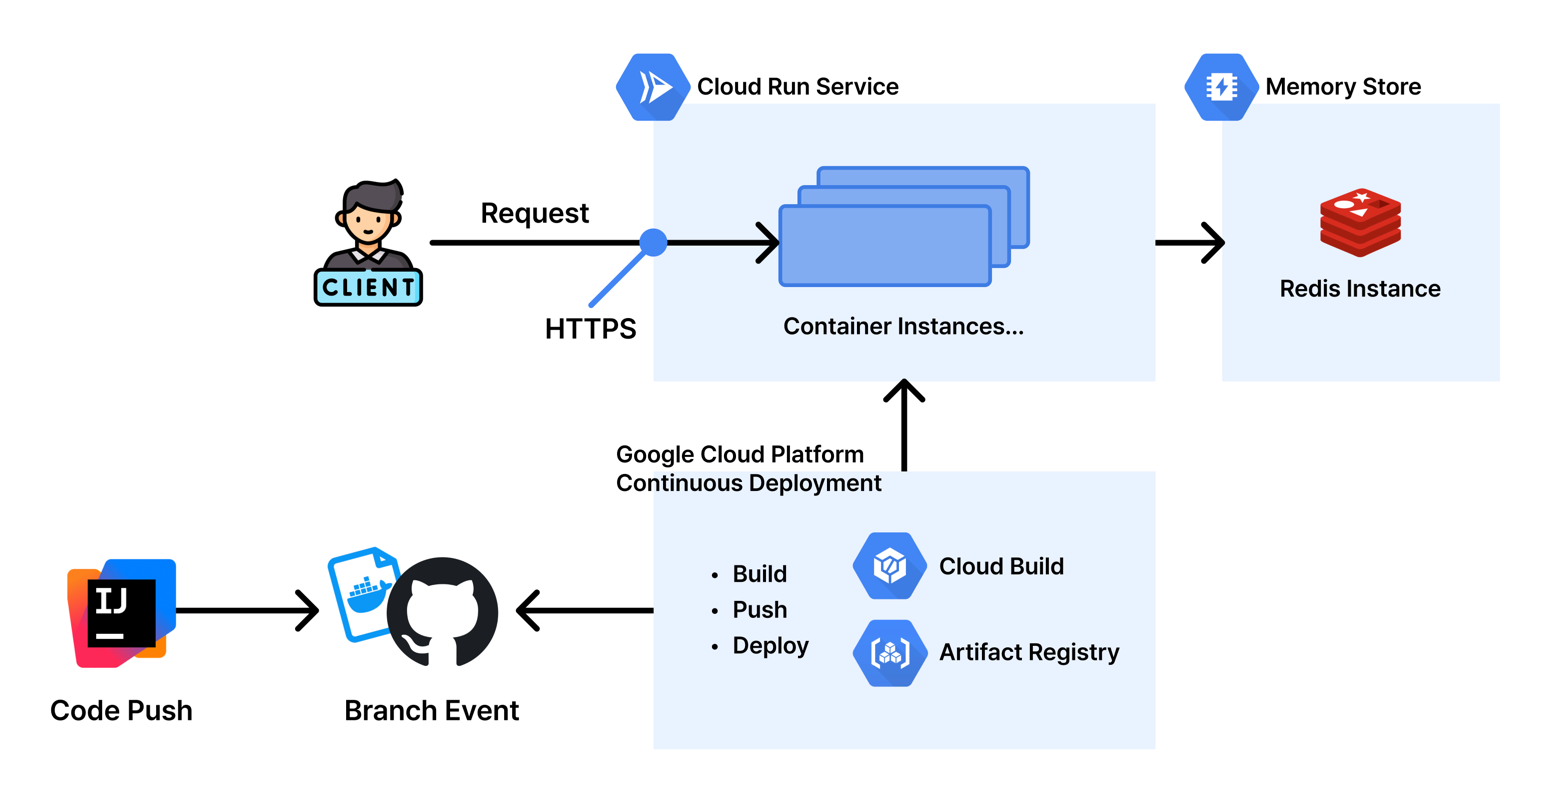
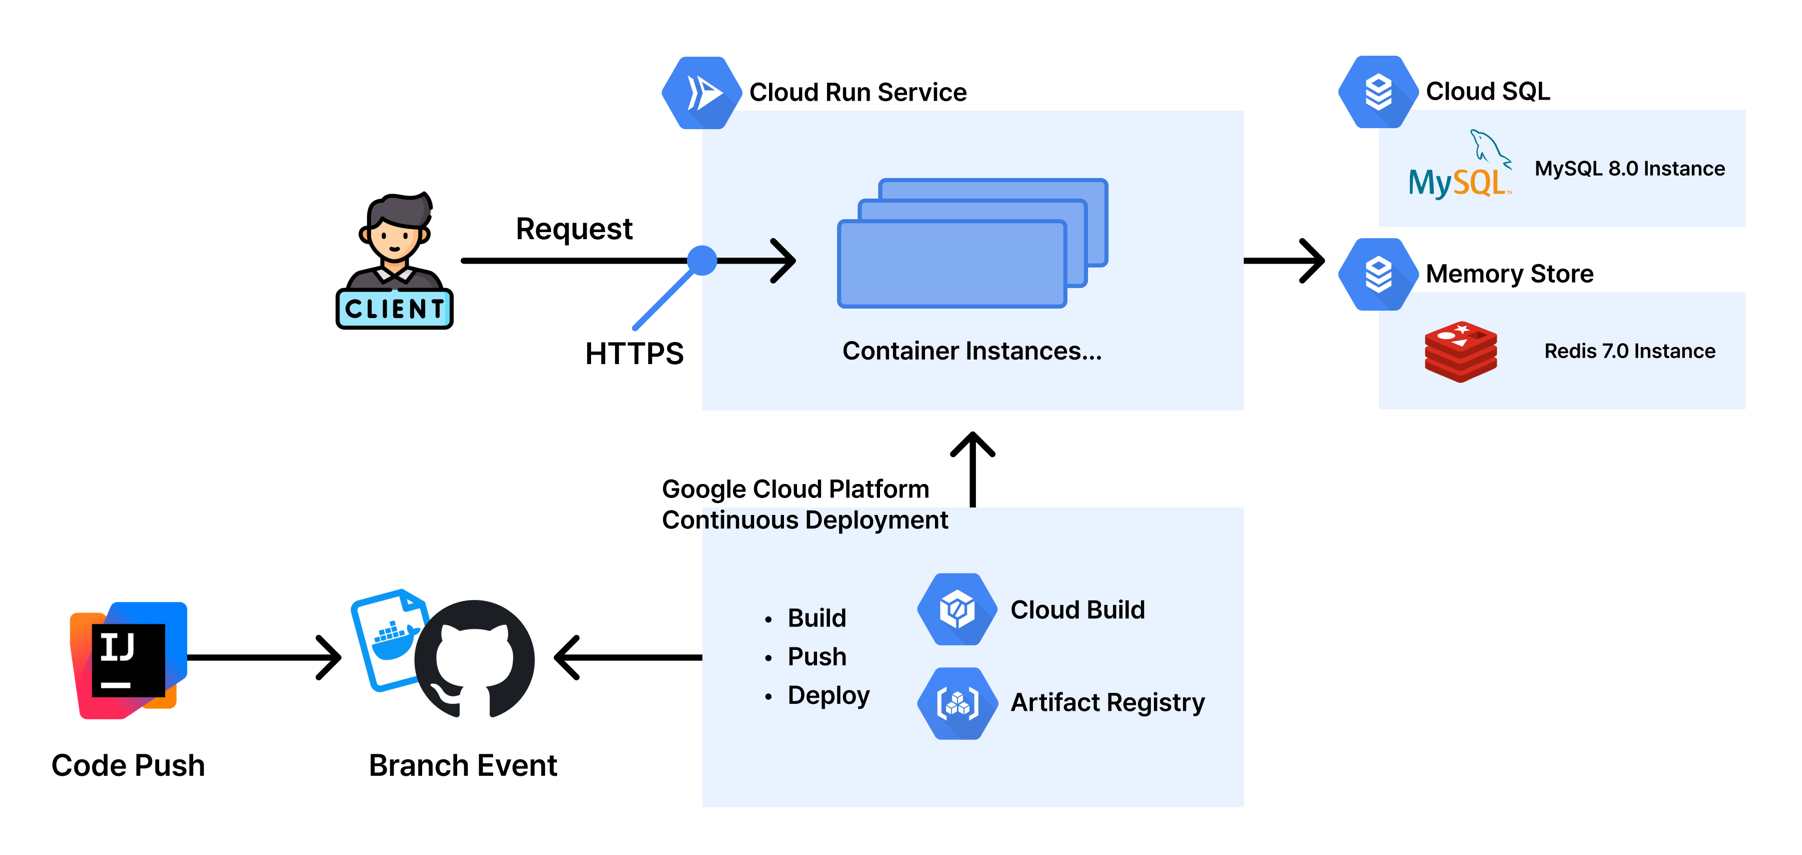
docs: 백엔드 구조 이미지 변경
- 이미지 변경 및 Cloud SQL, Memory Store 사용 이유를 추가로 작성합니다.

diff --git a/Writerside/topics/Architecture.md b/Writerside/topics/Architecture.md
@@ -19,3 +19,18 @@ PickCar의 백엔드 서버 구조입니다.
 </note>
 
 [Start Containers Quickly - Cloud Run Docs](https://cloud.google.com/run/docs/tips/general#start_containers_quickly)
+
+## Cloud SQL 선택 이유
+
+- VM 인스턴스를 생성하고 MySQL을 설치하거나 컨테이너를 준비하는 등의 복잡한 작업 없이 쉽게 MySQL 인스턴스를 생성할 수 있습니다.
+- VM 인스턴스 구성 비용과 큰 차이가 없으며, 데이터베이스 관리에 대한 부담을 줄일 수 있겠다고 생각했습니다.
+
+## Memory Store 선택 이유
+
+- Cloud SQL과 마찬가지로 복잡한 작업 없이 Redis 인스턴스를 생성할 수 있습니다.
+- 요금은 다소 비싸지만, GCP의 무료 크레딧을 사용할 수 있습니다.
+  - 추가로 여러 서비스와 연동하여 활용해볼 수 있는 기회가 된다고 생각했습니다.
+
+<note>
+    무료로 제공된 크레딧을 모두 사용한 경우에는, VM 인스턴스 내부에 데이터베이스, 캐시 서버 등을 직접 구성하고 관리하는 방법으로 전환할 계획입니다.
+</note>
